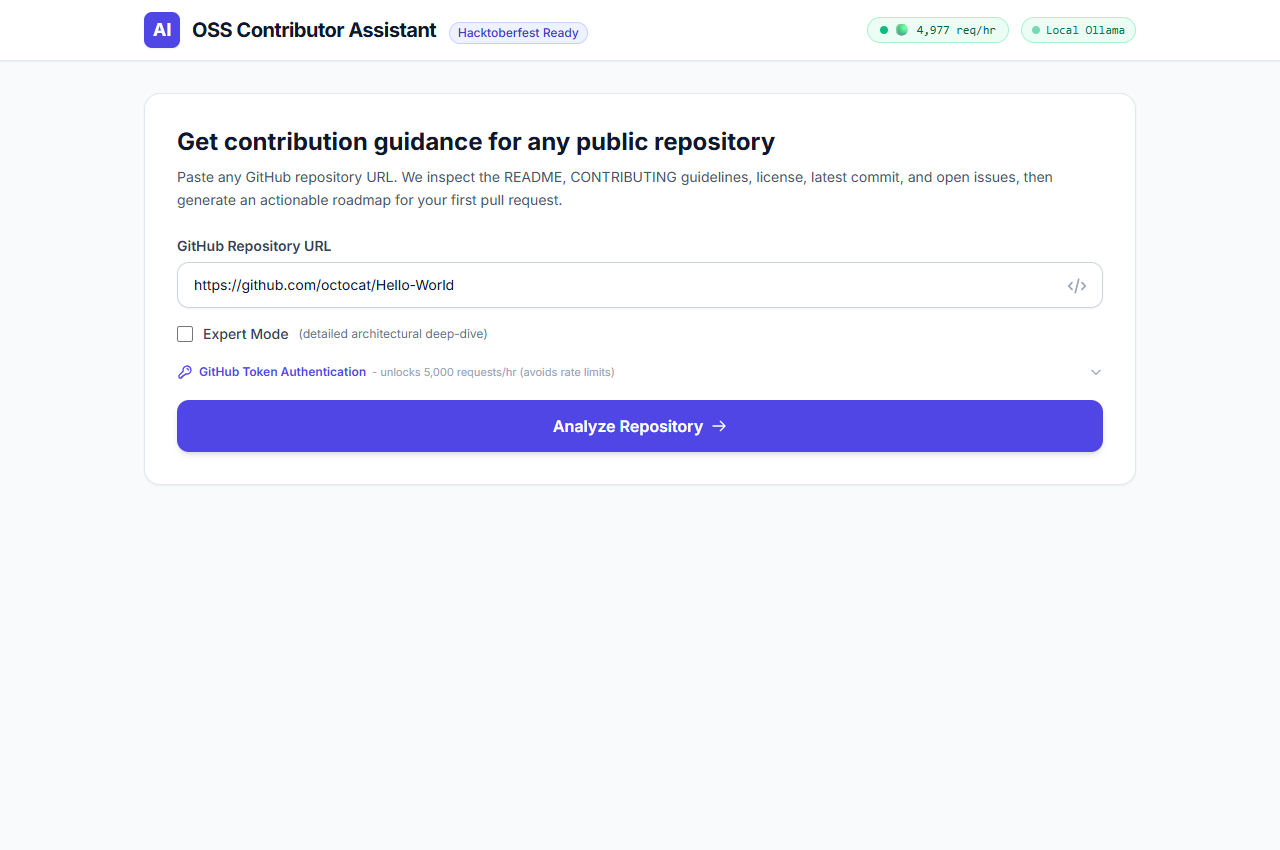
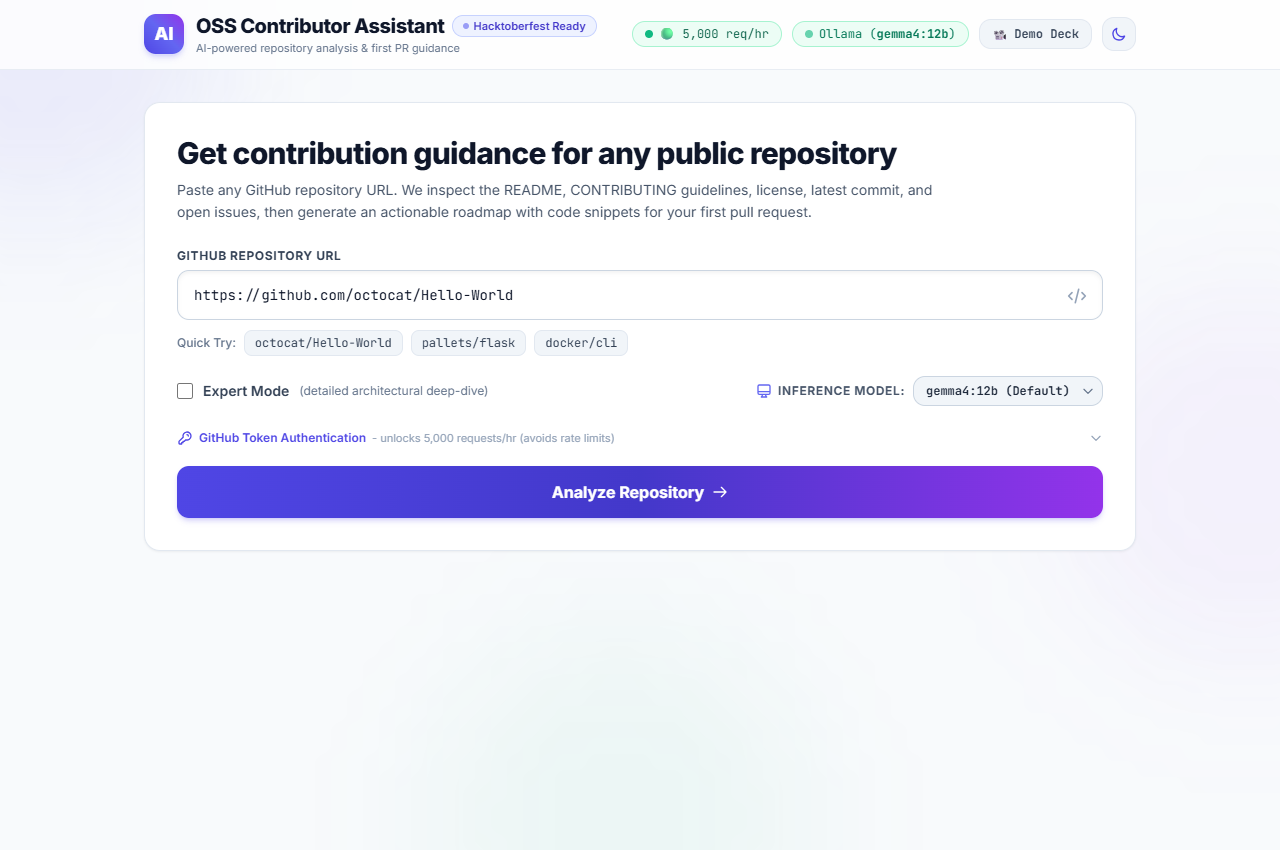
docs: update UI screenshots and README showcase

diff --git a/README.md b/README.md
@@ -8,11 +8,15 @@ Paste any public GitHub repository URL, and the assistant fetches the repository
 
 ## Screenshots
 
-### 1. Interactive Web Interface & Live Rate Limit Tracker
-![OSS Contributor Assistant Homepage](docs/images/ui-homepage.png)
+### 1. Interactive Web Interface & Live Rate Limit Tracker (Light & Dark Mode)
+![OSS Contributor Assistant Homepage - Light Theme](docs/images/ui-homepage.png)
+![OSS Contributor Assistant Homepage - Dark Theme](docs/images/dark-homepage.png)
 
 ### 2. Comprehensive Repository Analysis & Conventions Quick View
-![Repository Analysis Results](docs/images/ui-analysis-result.png)
+![Repository Analysis Results](docs/images/dark-analysis-result.png)
+
+### 3. Dynamic Model Auto-Detection & Selection
+![Dynamic Ollama Model Selection](docs/images/model-dropdown-verified.png)
 
 ---
 
